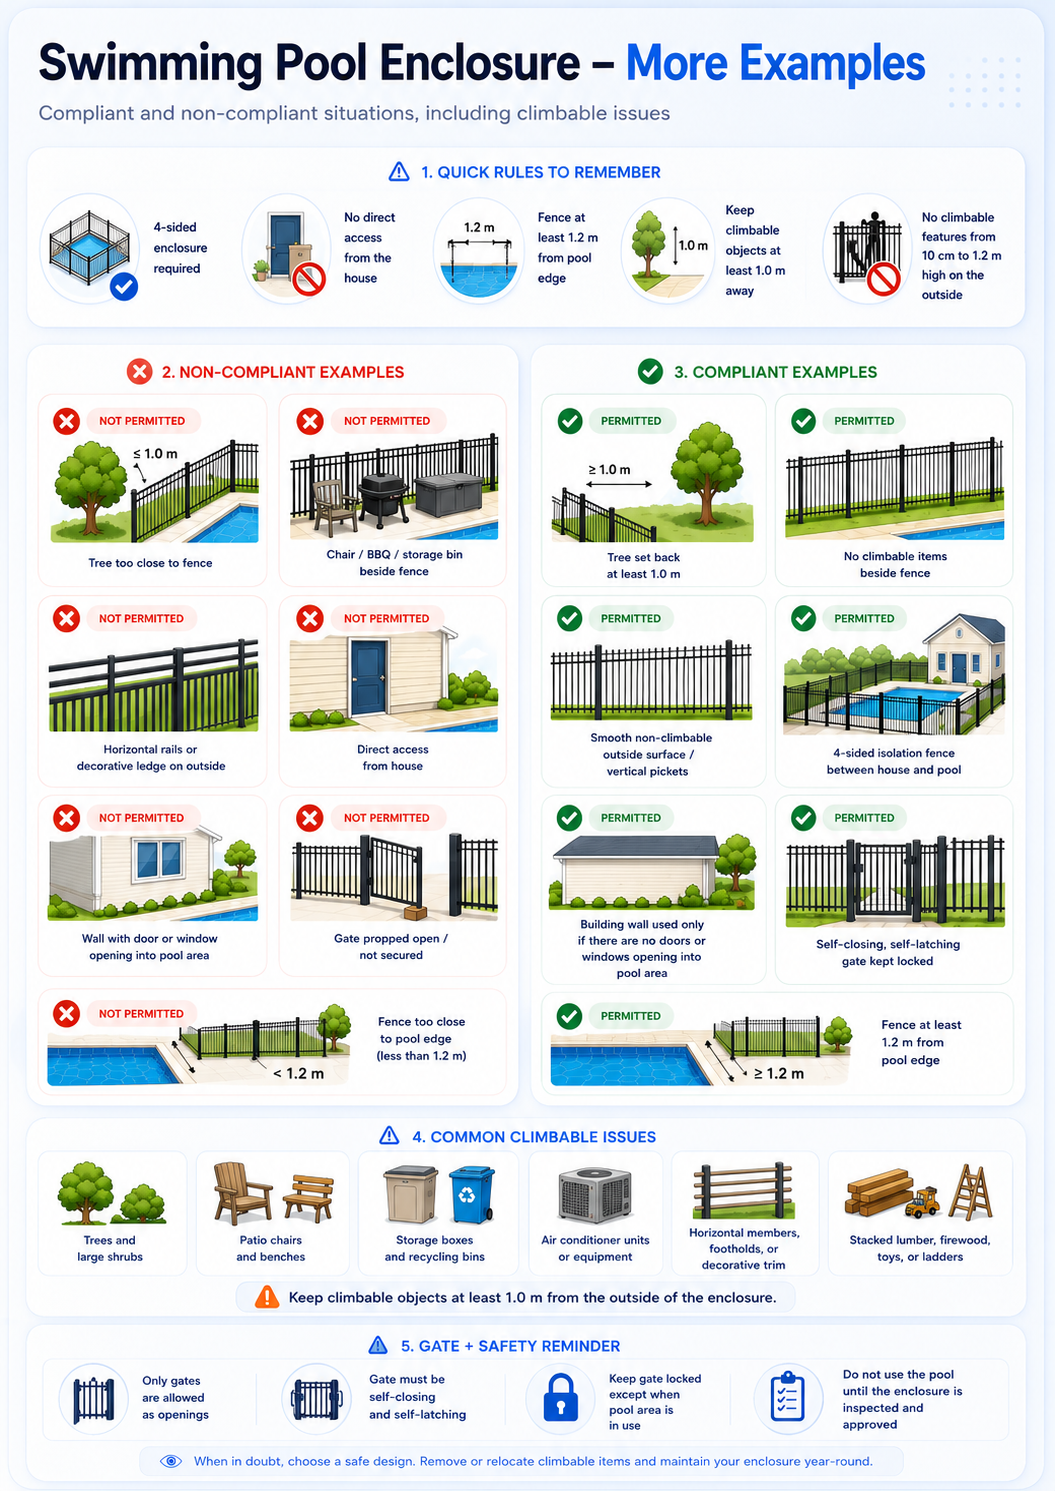
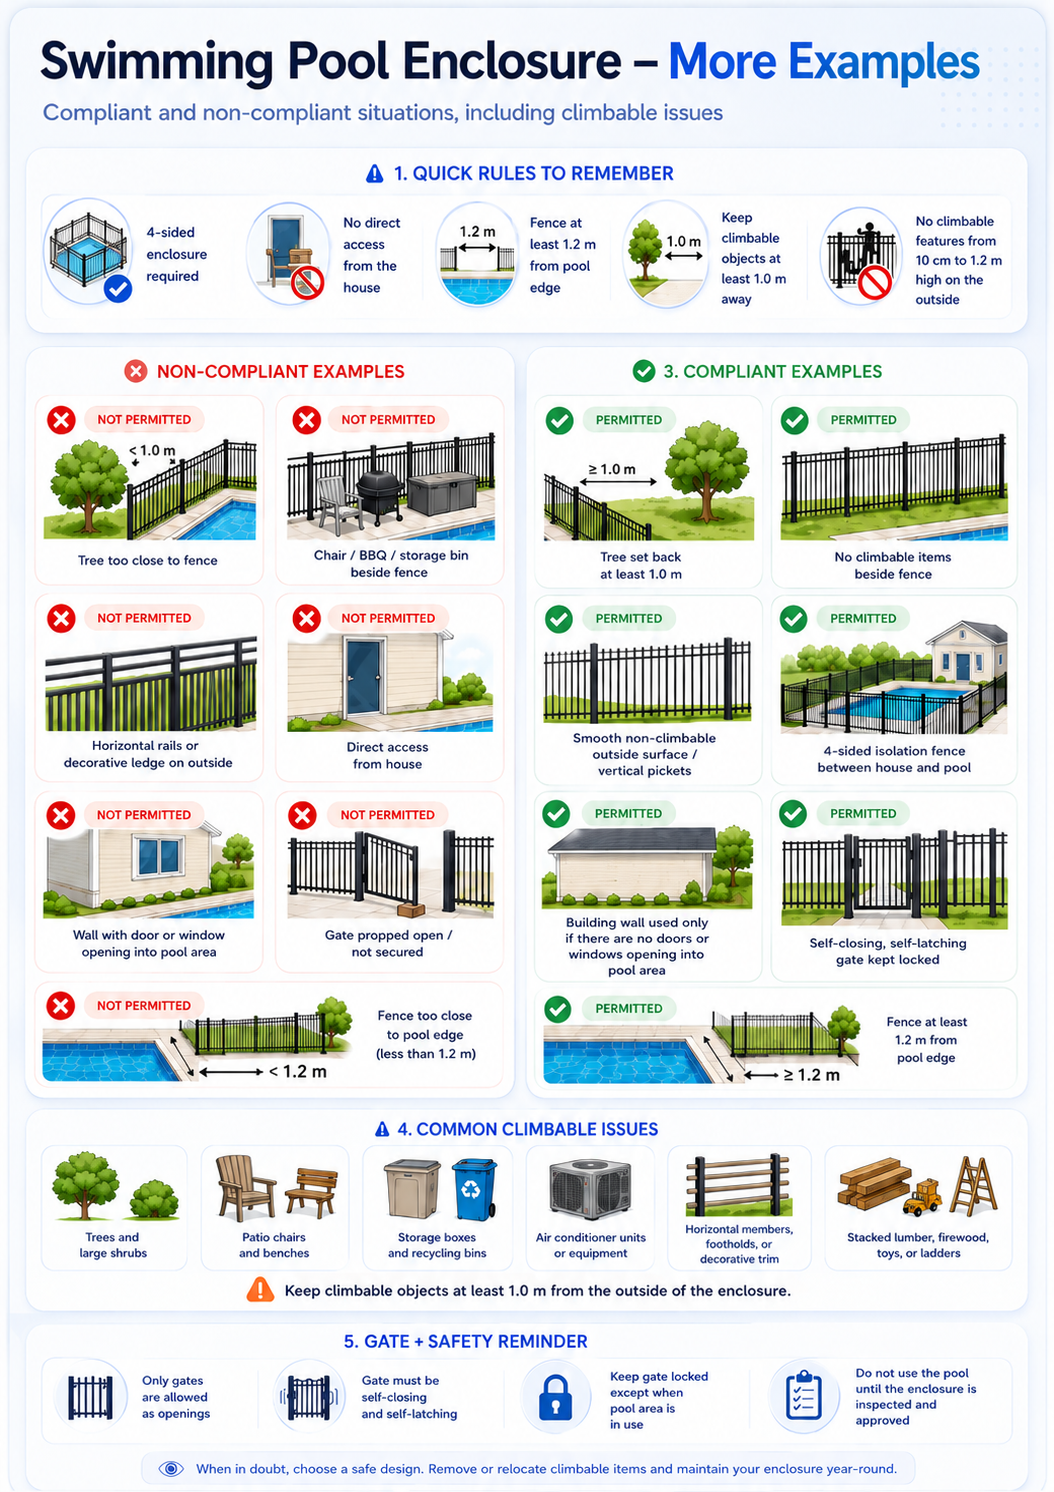
Pool Fence visuals: swap example image, add temp-fencing diagram, zoomable lightbox
- Replace the "Compliant / Non-Compliant Examples" carousel image with
  an updated version
- Add the "Temporary Pool Fencing Requirements" diagram to the Temporary
  Fencing section (click to enlarge, reuses the shared lightbox)
- Lightbox now supports further zoom + pan: toolbar (zoom out / % / zoom
  in / reset / close), wheel zoom (1x–4x), double-click toggle, and
  drag-to-pan; resets on image change/close. Applies to all pool-fence
  images
- Photo Review: the uploaded photo preview is now click-to-enlarge
  (accessible lightbox, Escape to close)

Changed region(s): [[0.0304, 0.0309, 0.9715, 0.9873], [0.7894, 0.7713, 0.9412, 0.8638]]

diff --git a/app/pool-fence-guide/page.tsx b/app/pool-fence-guide/page.tsx
@@ -8,7 +8,7 @@ import {
   CheckCircle2, Circle, ExternalLink, Waves, ShieldCheck, ShieldX, AlertTriangle,
   Info, ChevronDown, ChevronUp, ClipboardList, HardHat, Printer, BookOpen,
   Phone, Ruler, DoorClosed, Lock, Eye, Construction, ListChecks,
-  Images, Maximize2, X, ChevronLeft, ChevronRight,
+  Images, Maximize2, X, ChevronLeft, ChevronRight, ZoomIn, ZoomOut,
 } from "lucide-react";
 
 // ── Official sources ─────────────────────────────────────────────────────────
@@ -213,6 +213,17 @@ const VISUAL_SLIDES: VisualSlide[] = [
 const VISUAL_DISCLAIMER =
   "These images are simplified educational examples only. Actual compliance depends on exact measurements, site conditions, and the official requirements of Toronto Municipal Code Chapter 447.";
 
+// Standalone illustration for the Temporary Fencing section (opens in the lightbox).
+const TEMP_FENCING_IMAGE: VisualSlide = {
+  id: "temporary-fencing-image",
+  title: "Temporary Pool Fencing Requirements",
+  src: `${IMG_DIR}/pool-fence-temporary-fencing.png`,
+  width: 1448,
+  height: 1086,
+  alt: "Illustrated temporary pool fencing requirements: when it must be replaced, what an officer may consider, construction standards (steel T-posts spaced 1.2 m, embedded 600 mm, 38 mm plastic mesh, 11-gauge lacing cable), an acceptable alternative, and good-practice reminders.",
+  caption: "Temporary fencing during pool construction — a simplified reference. Confirm details with Chapter 447 and City staff.",
+};
+
 // ── At-a-glance summary + on-page navigation ─────────────────────────────────
 const QUICK_FACTS = [
   { icon: ClipboardList, label: "Permit", value: "Zoning Certificate first, then a Pool Fence Enclosure Permit." },
@@ -243,6 +254,11 @@ export default function PoolFenceGuidePage() {
   const [lightbox, setLightbox] = useState<VisualSlide | null>(null);
   const [slide, setSlide] = useState(0);
   const [paused, setPaused] = useState(false);
+  const [zoom, setZoom] = useState(1);
+  const [pan, setPan] = useState({ x: 0, y: 0 });
+  const [dragging, setDragging] = useState(false);
+  const dragRef = useRef<{ x: number; y: number; px: number; py: number } | null>(null);
+  const ZOOM_MIN = 1, ZOOM_MAX = 4, ZOOM_STEP = 0.5;
 
   const slideCount = VISUAL_SLIDES.length;
   const goPrev = () => setSlide((s) => (s - 1 + slideCount) % slideCount);
@@ -285,6 +301,28 @@ export default function PoolFenceGuidePage() {
       document.body.style.overflow = prevOverflow;
     };
   }, [lightbox]);
+
+  // Reset zoom/pan when the lightbox image changes or closes; clear pan at 1×.
+  useEffect(() => { setZoom(1); setPan({ x: 0, y: 0 }); }, [lightbox]);
+  useEffect(() => { if (zoom === 1) setPan({ x: 0, y: 0 }); }, [zoom]);
+
+  const zoomIn = () => setZoom((z) => Math.min(ZOOM_MAX, +(z + ZOOM_STEP).toFixed(2)));
+  const zoomOut = () => setZoom((z) => Math.max(ZOOM_MIN, +(z - ZOOM_STEP).toFixed(2)));
+  const resetZoom = () => { setZoom(1); setPan({ x: 0, y: 0 }); };
+  const onLightboxWheel = (e: React.WheelEvent) =>
+    setZoom((z) => Math.min(ZOOM_MAX, Math.max(ZOOM_MIN, +(z + (e.deltaY < 0 ? ZOOM_STEP : -ZOOM_STEP)).toFixed(2))));
+  const onLightboxPointerDown = (e: React.PointerEvent) => {
+    if (zoom <= 1) return;
+    (e.currentTarget as HTMLElement).setPointerCapture(e.pointerId);
+    dragRef.current = { x: e.clientX, y: e.clientY, px: pan.x, py: pan.y };
+    setDragging(true);
+  };
+  const onLightboxPointerMove = (e: React.PointerEvent) => {
+    if (!dragRef.current) return;
+    setPan({ x: dragRef.current.px + (e.clientX - dragRef.current.x), y: dragRef.current.py + (e.clientY - dragRef.current.y) });
+  };
+  const onLightboxPointerUp = () => { dragRef.current = null; setDragging(false); };
+  const onLightboxDoubleClick = () => setZoom((z) => (z > 1 ? 1 : 2));
 
   const toggle = (id: string) => setChecked((p) => ({ ...p, [id]: !p[id] }));
   const filteredChecklist = poolFenceChecklist.filter((i) => filterCat === "All" || i.category === filterCat);
@@ -600,6 +638,30 @@ export default function PoolFenceGuidePage() {
               See the{" "}
               <button type="button" onClick={() => goToSlide(2)} className="text-cyan-600 hover:text-cyan-700 font-medium underline-offset-2 hover:underline">Fence Material Examples</button>{" "}in the visual guide above for material suitability context.
             </p>
+
+            {/* Temporary fencing illustration (click to enlarge) */}
+            <figure className="m-0 mb-5">
+              <button
+                type="button"
+                onClick={() => setLightbox(TEMP_FENCING_IMAGE)}
+                aria-label={`Enlarge image: ${TEMP_FENCING_IMAGE.title}`}
+                className="group relative block w-full overflow-hidden rounded-xl border border-gray-200 bg-gray-50 focus-visible:outline-none focus-visible:ring-2 focus-visible:ring-cyan-500"
+              >
+                <Image
+                  src={TEMP_FENCING_IMAGE.src}
+                  width={TEMP_FENCING_IMAGE.width}
+                  height={TEMP_FENCING_IMAGE.height}
+                  alt={TEMP_FENCING_IMAGE.alt}
+                  sizes="(max-width: 896px) 100vw, 800px"
+                  className="w-full h-auto"
+                />
+                <span className="absolute bottom-2 right-2 inline-flex items-center gap-1 px-2 py-1 rounded-lg bg-black/55 text-white text-[11px] font-medium opacity-0 group-hover:opacity-100 group-focus-visible:opacity-100 transition-opacity">
+                  <Maximize2 className="w-3 h-3" aria-hidden="true" /> Enlarge
+                </span>
+              </button>
+              <figcaption className="text-xs text-gray-500 mt-2">{TEMP_FENCING_IMAGE.caption}</figcaption>
+            </figure>
+
             <div className="grid grid-cols-1 sm:grid-cols-2 gap-4">
               <div className="rounded-xl border border-green-100 bg-green-50/60 p-4">
                 <p className="flex items-center gap-2 text-sm font-semibold text-green-800 mb-2"><ShieldCheck className="w-4 h-4" aria-hidden="true" /> Better temporary condition</p>
@@ -744,35 +806,84 @@ export default function PoolFenceGuidePage() {
         </div>
       </div>
 
-      {/* Image lightbox (click-to-enlarge) */}
+      {/* Image lightbox (click-to-enlarge, with zoom + pan) */}
       {lightbox && (
         <div
-          className="fixed inset-0 z-50 flex items-center justify-center bg-black/80 p-4 print:hidden"
+          className="fixed inset-0 z-50 flex flex-col items-center justify-center bg-black/85 p-4 print:hidden"
           role="dialog"
           aria-modal="true"
           aria-label={`${lightbox.title} — enlarged image`}
           onClick={() => setLightbox(null)}
         >
-          <button
-            type="button"
-            autoFocus
-            onClick={() => setLightbox(null)}
-            aria-label="Close enlarged image"
-            className="absolute top-4 right-4 inline-flex items-center justify-center w-10 h-10 rounded-full bg-white/15 text-white hover:bg-white/25 transition-colors focus-visible:outline-none focus-visible:ring-2 focus-visible:ring-white"
+          {/* Zoom toolbar */}
+          <div className="absolute top-4 right-4 z-10 flex items-center gap-1" onClick={(e) => e.stopPropagation()}>
+            <button
+              type="button"
+              onClick={zoomOut}
+              disabled={zoom <= ZOOM_MIN}
+              aria-label="Zoom out"
+              className="inline-flex items-center justify-center w-9 h-9 rounded-lg bg-white/15 text-white hover:bg-white/25 disabled:opacity-40 disabled:cursor-not-allowed transition-colors focus-visible:outline-none focus-visible:ring-2 focus-visible:ring-white"
+            >
+              <ZoomOut className="w-4 h-4" aria-hidden="true" />
+            </button>
+            <span className="min-w-[3.25rem] text-center text-xs font-medium text-white/90 tabular-nums select-none">{Math.round(zoom * 100)}%</span>
+            <button
+              type="button"
+              onClick={zoomIn}
+              disabled={zoom >= ZOOM_MAX}
+              aria-label="Zoom in"
+              className="inline-flex items-center justify-center w-9 h-9 rounded-lg bg-white/15 text-white hover:bg-white/25 disabled:opacity-40 disabled:cursor-not-allowed transition-colors focus-visible:outline-none focus-visible:ring-2 focus-visible:ring-white"
+            >
+              <ZoomIn className="w-4 h-4" aria-hidden="true" />
+            </button>
+            <button
+              type="button"
+              onClick={resetZoom}
+              disabled={zoom === 1 && pan.x === 0 && pan.y === 0}
+              aria-label="Reset zoom"
+              className="inline-flex items-center justify-center w-9 h-9 rounded-lg bg-white/15 text-white hover:bg-white/25 disabled:opacity-40 disabled:cursor-not-allowed transition-colors focus-visible:outline-none focus-visible:ring-2 focus-visible:ring-white"
+            >
+              <Maximize2 className="w-4 h-4" aria-hidden="true" />
+            </button>
+            <button
+              type="button"
+              autoFocus
+              onClick={() => setLightbox(null)}
+              aria-label="Close enlarged image"
+              className="ml-1 inline-flex items-center justify-center w-9 h-9 rounded-lg bg-white/15 text-white hover:bg-white/25 transition-colors focus-visible:outline-none focus-visible:ring-2 focus-visible:ring-white"
+            >
+              <X className="w-5 h-5" aria-hidden="true" />
+            </button>
+          </div>
+
+          {/* Zoomable viewport */}
+          <div
+            className="relative flex max-h-[84vh] max-w-[95vw] items-center justify-center overflow-hidden"
+            onClick={(e) => e.stopPropagation()}
+            onWheel={onLightboxWheel}
+            onPointerDown={onLightboxPointerDown}
+            onPointerMove={onLightboxPointerMove}
+            onPointerUp={onLightboxPointerUp}
+            onPointerLeave={onLightboxPointerUp}
+            onDoubleClick={onLightboxDoubleClick}
+            style={{ cursor: zoom > 1 ? (dragging ? "grabbing" : "grab") : "zoom-in", touchAction: "none" }}
           >
-            <X className="w-5 h-5" aria-hidden="true" />
-          </button>
-          <figure className="m-0 max-w-5xl" onClick={(e) => e.stopPropagation()}>
-            <Image
-              src={lightbox.src}
-              width={lightbox.width}
-              height={lightbox.height}
-              alt={lightbox.alt}
-              sizes="100vw"
-              className="w-auto h-auto max-h-[86vh] max-w-full rounded-lg mx-auto"
-            />
-            <figcaption className="text-center text-xs text-gray-200 mt-2">{lightbox.caption}</figcaption>
-          </figure>
+            <div style={{ transform: `translate(${pan.x}px, ${pan.y}px) scale(${zoom})`, transition: dragging ? "none" : "transform 0.15s ease" }}>
+              <Image
+                src={lightbox.src}
+                width={lightbox.width}
+                height={lightbox.height}
+                alt={lightbox.alt}
+                sizes="100vw"
+                draggable={false}
+                className="block w-auto h-auto max-h-[84vh] max-w-[95vw] rounded-lg select-none"
+              />
+            </div>
+          </div>
+
+          <figcaption className="mt-3 max-w-2xl text-center text-xs text-gray-300" onClick={(e) => e.stopPropagation()}>
+            {lightbox.caption} <span className="text-gray-400">· scroll or use +/− to zoom, drag to pan, double-click to toggle</span>
+          </figcaption>
         </div>
       )}
 

diff --git a/app/photo-review/page.tsx b/app/photo-review/page.tsx
@@ -1,9 +1,9 @@
 "use client";
-import { useState, useRef } from "react";
+import { useState, useRef, useEffect } from "react";
 import Link from "next/link";
 import {
   Camera, Upload, X, ExternalLink, Loader2, FileImage,
-  Info, CheckCircle2, ChevronDown, Clock, SearchCheck,
+  Info, CheckCircle2, ChevronDown, Clock, SearchCheck, Maximize2,
 } from "lucide-react";
 import { photoReviewIssues, getPhotoIssue, OFFICIAL_311_URL } from "@/lib/mock-data";
 
@@ -14,7 +14,21 @@ export default function PhotoReviewPage() {
   const [description, setDescription] = useState("");
   const [isReviewing, setIsReviewing] = useState(false);
   const [reviewed, setReviewed] = useState(false);
+  const [zoomOpen, setZoomOpen] = useState(false);
   const fileInputRef = useRef<HTMLInputElement>(null);
+
+  // Close the preview lightbox with Escape and lock body scroll while open.
+  useEffect(() => {
+    if (!zoomOpen) return;
+    const onKey = (e: KeyboardEvent) => { if (e.key === "Escape") setZoomOpen(false); };
+    document.addEventListener("keydown", onKey);
+    const prevOverflow = document.body.style.overflow;
+    document.body.style.overflow = "hidden";
+    return () => {
+      document.removeEventListener("keydown", onKey);
+      document.body.style.overflow = prevOverflow;
+    };
+  }, [zoomOpen]);
 
   const selectedIssue = issueType ? getPhotoIssue(issueType) : undefined;
   const isNoise = selectedIssue?.comingSoon === true;
@@ -109,11 +123,21 @@ export default function PhotoReviewPage() {
           >
             {previewUrl ? (
               <>
-                {/* eslint-disable-next-line @next/next/no-img-element */}
-                <img src={previewUrl} alt="Your uploaded photo preview" className="w-full h-full object-cover max-h-56" />
+                <button
+                  type="button"
+                  onClick={(e) => { e.stopPropagation(); setZoomOpen(true); }}
+                  aria-label="Enlarge uploaded photo"
+                  className="group relative block w-full cursor-zoom-in focus-visible:outline-none focus-visible:ring-2 focus-visible:ring-inset focus-visible:ring-violet-500"
+                >
+                  {/* eslint-disable-next-line @next/next/no-img-element */}
+                  <img src={previewUrl} alt="Your uploaded photo preview" className="w-full h-full object-cover max-h-56" />
+                  <span className="absolute bottom-2 right-2 inline-flex items-center gap-1 px-2 py-1 rounded-lg bg-black/55 text-white text-[11px] font-medium opacity-0 group-hover:opacity-100 group-focus-visible:opacity-100 transition-opacity">
+                    <Maximize2 className="w-3 h-3" aria-hidden="true" /> Enlarge
+                  </span>
+                </button>
                 <button
                   onClick={(e) => { e.stopPropagation(); handleClear(); }}
-                  className="absolute top-2 right-2 w-7 h-7 bg-white/90 border border-gray-200 rounded-full flex items-center justify-center hover:bg-red-50 hover:border-red-200 transition-colors"
+                  className="absolute top-2 right-2 w-7 h-7 bg-white/90 border border-gray-200 rounded-full flex items-center justify-center hover:bg-red-50 hover:border-red-200 transition-colors z-10"
                   aria-label="Remove image"
                 >
                   <X className="w-3.5 h-3.5 text-gray-500" />
@@ -344,6 +368,34 @@ export default function PhotoReviewPage() {
           )}
         </div>
       </div>
+
+      {/* Uploaded-photo lightbox (click to enlarge) */}
+      {zoomOpen && previewUrl && (
+        <div
+          className="fixed inset-0 z-[100] flex items-center justify-center bg-black/85 p-4 backdrop-blur-sm"
+          role="dialog"
+          aria-modal="true"
+          aria-label="Enlarged uploaded photo"
+          onClick={() => setZoomOpen(false)}
+        >
+          <button
+            type="button"
+            autoFocus
+            onClick={() => setZoomOpen(false)}
+            aria-label="Close enlarged image"
+            className="absolute top-4 right-4 inline-flex items-center justify-center w-10 h-10 rounded-full bg-white/15 text-white hover:bg-white/25 transition-colors focus-visible:outline-none focus-visible:ring-2 focus-visible:ring-white"
+          >
+            <X className="w-5 h-5" aria-hidden="true" />
+          </button>
+          {/* eslint-disable-next-line @next/next/no-img-element */}
+          <img
+            src={previewUrl}
+            alt="Your uploaded photo, enlarged"
+            className="max-h-[88vh] max-w-full w-auto h-auto rounded-lg object-contain"
+            onClick={(e) => e.stopPropagation()}
+          />
+        </div>
+      )}
     </div>
   );
 }